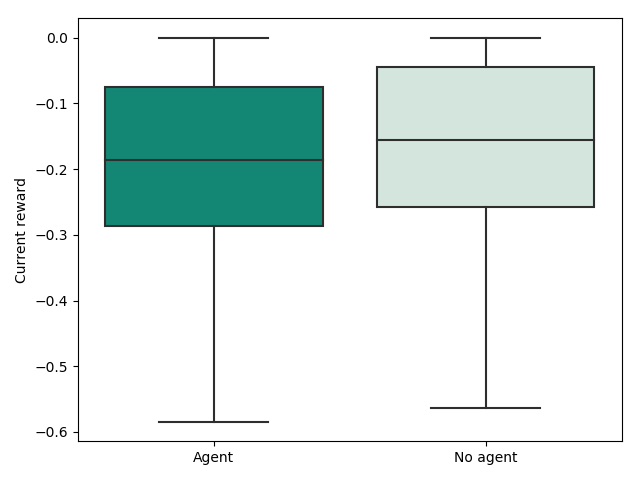
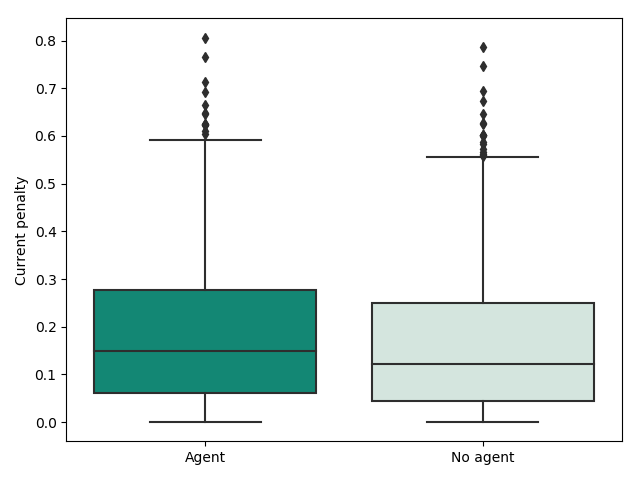
Update on Overleaf.

diff --git a/chapters/results.tex b/chapters/results.tex
@@ -158,40 +158,40 @@ The plot for \texttt{load 8} is shown alone in figure \ref{fig:results:configura
 
 \subsection{Voltage violations}
 The reward function has an energy imbalance term during training that is meant to incentives the agent to shift energy consumption. However, the main goal of the agent is to keep the values for current and voltage within safety margins. Therefore, it is interesting to see the rewards of the trained model when only the voltage and current terms are considered. In other words, the agent is only penalised for violating safety margins for current and voltage in the grid. The trained model was tested for 500 episodes each consisting of 200 steps and evaluated
-in terms of voltage penalty and current penalty independently. The statistics for the hours with a non-zero reward using only voltage reward are presented in table \ref{table:results:configuration1_reward_500_episodes}. Note that every non-zero reward corresponds to a violation of voltage margin because only the voltage term is used to calculate the reward. The trained agent reduces the number of voltage safety margin violations by 13 \% from 8593 to 7484. Note that there is no guarantee that it is physically feasible to satisfy voltage safety margins given a demand flexibility of 10 \%. It is clear that there is little difference between the trained agent and the no agent scenario in terms of mean voltage reward. Still, the reduction in number of voltage violations means that the trained agent overall is performing better in the 500 episodes. 
+in terms of voltage penalty and current penalty independently. The statistics for the hours with a non-zero reward using only voltage reward are presented in table \ref{table:results:configuration1_reward_500_episodes}. Note that every non-zero reward corresponds to a violation of voltage margin because only the voltage term is used to calculate the reward. The trained agent reduces the number of voltage safety margin violations by 18 \% from 8804 to 7253. Note that there is no guarantee that it is physically feasible to satisfy voltage safety margins given a demand flexibility of 10 \%. In addition to reducing the number of violations, the trained agent reduces the mean voltage penalty by 8\%.
 \begin{table}[h]
 \center
-\caption{Statistics of the voltage rewards given to the trained agent and no agent scenario over 500 episodes with 200 hours each}
+\caption{Statistics of the voltage penalty given to the trained agent and no agent scenario over 500 episodes with 200 hours each}
 \begin{tabular}{l|rrrrrrr}
-         & count & mean   & std   & min    & 25\%   & 50\%   & 75\%   \\
+         & count    & mean  & std   & 25\%  & 50\%  & 75\%  & max   \\
 \hline
-Agent    & 7484  & -0.033 & 0.035 & -0.189 & -0.049 & -0.021 & -0.007 \\
-No agent & 8593  & -0.035 & 0.037 & -0.186 & -0.054 & -0.022 & -0.006 \\
+Agent    & 7253 & 0.035 & 0.037 & 0.006 & 0.021 & 0.052 & 0.237 \\
+No agent & 8804 & 0.037 & 0.039 & 0.007 & 0.023 & 0.057 & 0.227 \\
 \hline
 \end{tabular}
 \label{table:results:configuration1_reward_500_episodes}
 \end{table}
 
-Figure \ref{fig:results:config1_voltage_boxplot} shows the voltage reward distribution for the trained agent and no agent scenario for hours with violations of voltage safety margins. These hours are termed critical since there would be voltage violations if no actions were taken. The trained agent is better in critical situations, as more of the rewards are centred closer to zero.
+Figure \ref{fig:results:config1_voltage_boxplot} shows the voltage penalty distribution for the trained agent and no agent scenario for hours with violations of voltage safety margins. These hours are termed critical since there would be voltage violations if no actions were taken. The trained agent is better in critical situations, as more of the penalties are centred closer to zero.
 
 \begin{figure}[H]
     \center
 \includegraphics[height=8cm, width=12cm]{figures/config1_voltage_boxplot.png}
-    \caption[size = 9]{Box plot of the reward distribution of the trained agent and no agent scenario for critical hours where safety margins are violated.}
+    \caption[size = 9]{Box plot of the voltage penalty distribution of the trained agent and no agent scenario for critical hours where safety margins are violated.}
     \label{fig:results:config1_voltage_boxplot}
 \end{figure}
 
-The statistics presented in table \ref{table:results:configuration1_reward_500_ep_preventive} show that the mean voltage penalty for the trained agent is reduced by 17 \% in critical hours.
+The statistics presented in table \ref{table:results:configuration1_reward_500_ep_preventive} show that the mean voltage penalty for the trained agent is reduced by 24 \% in critical hours.
 
 
 \begin{table}[h]
 \center
-\caption{Statistics of the voltage rewards given in critical hours to the trained agent and no agent scenario over a 500 episodes simulation with 200 hours each}
+\caption{Statistics of the voltage penalty given in critical hours to the trained agent and no agent scenario over a 500 episodes simulation with 200 hours each}
 \begin{tabular}{l|rrrrrrr}
-         & count & mean   & std   & min    & 25\%   & 50\%   & 75\%   \\
+         & count    & mean  & std   & 25\%  & 50\%  & 75\%  & max   \\
 \hline
-Agent    & 8593 & -0.029 & 0.034 & -0.190 & -0.044 & -0.015 & -0.003 \\
-No agent & 8593 & -0.035 & 0.037 & -0.186 & -0.054 & -0.022 & -0.006 \\
+Agent    & 8804 & 0.028 & 0.036 & 0.000 & 0.014 & 0.044 & 0.237 \\
+No agent & 8804 & 0.037 & 0.039 & 0.007 & 0.023 & 0.057 & 0.227 \\
 \hline
 \end{tabular}
 \label{table:results:configuration1_reward_500_ep_preventive}
@@ -199,19 +199,19 @@ No agent & 8593 & -0.035 & 0.037 & -0.186 & -0.054 & -0.022 & -0.006 \\
 
 
 
-All rewards in the no agent scenario for critical hours are sorted and plotted in figure \ref{fig:results:config1_sorted_voltage}. The corresponding rewards given to the trained agent are also plotted. This is done to see if the trained agent is better in very critical periods with severe voltage penalties, or if it performs well overall. The plot shows that the trained agent for the most part receives lower voltage penalties regardless of the size of the violation. Still, there are occasions where the trained agent is below the no agent scenario in figure \ref{fig:results:config1_sorted_voltage} which corresponds to periods where the trained agent aggravates the voltage magnitudes. The trained agent makes matters worse in 41\% of the critical hours, and increases the mean penalty with 13 \% in those hours. However, the trained agent improves the voltage margins in 59 \% of the critical hours, where it decreases the mean voltage penalty by 38 \%.
+All votlage penalties in the no agent scenario for critical hours are sorted and plotted in figure \ref{fig:results:config1_sorted_voltage}. The corresponding voltage penalties given to the trained agent are also plotted. This is done to see if the trained agent is better in very critical periods with severe voltage penalties, or if it performs well overall. The plot shows that the trained agent for the most part receives lower voltage penalties regardless of the size of the violation. Still, there are occasions where the trained agent is above the no agent scenario in figure \ref{fig:results:config1_sorted_voltage} which corresponds to periods where the trained agent aggravates the voltage magnitudes. The trained agent makes matters worse in 40\% of the critical hours, and increases the mean penalty with 29 \% in those hours. However, the trained agent improves the voltage margins in 60 \% of the critical hours, where it decreases the mean voltage penalty by 57\%.
 
 
 
 \begin{figure}[h]
     \center
 \includegraphics[height=8cm, width=12cm]{figures/config1_sorted_voltage.png}
-    \caption[size = 9]{Voltage rewards given to the trained agent and no agent scenario in critical hours. The rewards are sorted for the no agent scenario from best to worst}
+    \caption[size = 9]{Voltage penalties given to the trained agent and no agent scenario in critical hours. The penalties are sorted for the no agent scenario from least to most severe}
     \label{fig:results:config1_sorted_voltage}
 \end{figure}
 
 
-Figure \ref{fig:results:config1_improvement_voltage} shows for each hour of a day a box plot of the difference between the voltage reward given to the trained agent and no agent scenario in critical hours. This plot illustrates the improvements of the trained agent, measured in terms of the increase in voltage reward. Evidently, the trained agent is only improving the voltage situations in the afternoon, in periods of peak demand. 
+Figure \ref{fig:results:config1_improvement_voltage} shows for each hour of a day a box plot of the difference between the voltage reward given to the trained agent and no agent scenario in critical hours. This plot illustrates the improvements of the trained agent, measured in terms of the increase in voltage reward. Evidently, the trained agent is only improving the voltage situations in the afternoon, in periods of peak demand. This explains the times the agent makes matters worse in figure \ref{fig:results:config1_sorted_voltage}. 40 \% of the voltage violations occur before peak demand hours (18 pm), which is the same as the proportion of the critical hours where the trained agent makes matters worse. 
 
 \begin{figure}[h]
     \center
@@ -220,42 +220,42 @@ Figure \ref{fig:results:config1_improvement_voltage} shows for each hour of a da
     \label{fig:results:config1_improvement_voltage}
 \end{figure}
 
-Until now, the the trained agent has been evaluated in critical hours, where there would be a safety violation in the no agent scenario. However, the electric grid is within safety margins 91 \% of the time in the 500 episode simulation. It is very important that the trained agent finds appropriate behaviour in both non-critical and critical hours. Investigating the voltage penalty given to the agent in non-critical hours reveals that the agent pushes the voltages out of the safety margins 0.3 \% of the time. The worst of these violations is -0.0007 in magnitude, which is negligible  compared the violations in critical hours. In other words, the agent behaves well in non-critical hours in terms of voltage. 
+Until now, the the trained agent has been evaluated in critical hours, where there would be a safety violation in the no agent scenario. However, the electric grid is within safety margins 91 \% of the time in the 500 episode simulation. It is very important that the trained agent finds appropriate behaviour in both non-critical and critical hours. Investigating the voltage penalty given to the agent in non-critical hours reveals that the agent pushes the voltages out of the safety margins 0.6 \% of the time. The worst of these violations is -0.004 in magnitude, which is negligible  compared the violations in critical hours. In other words, the agent behaves well in non-critical hours in terms of voltage. 
 
 
 \subsection{Current violations}\label{section:config1:current_violations}
-The trained agent is tested in a 500 episode simulation, each consisting of 200 hours, and evaluated in terms of violations of current safety margins in the power lines. Specifically, the current cost $C_{current}$ for a line carrying a current $I$ with capacity $I_{max}$ is $C_{current} = \max(0,I - I_{max})$ where $I_{max}$ is set to 90 \% of the line capacity. The total current cost is found by summing over all lines. Note that the terms \textit{cost} and \textit{reward} are used interchangeably, depending on what is most natural. In all cases the reward is the negative of the cost. The statistics for the current violation of the trained agent and no agent scenario are presented in table \ref{table:results:configuration1_reward_500_episodes_current}
+The trained agent is tested in a 500 episode simulation, each consisting of 200 hours, and evaluated in terms of violations of current safety margins in the power lines. Specifically, the current cost $C_{\textrm{current}}$ for a line carrying a current $I$ with capacity $I_{\textrm{upper}}$ is $C_{\textrm{current}} = \max(0,I - I_{\textrm{max}})$ where $I_{\textrm{upper}}$ is set to 90 \% of the line capacity. The total current cost is found by summing over all lines. Note that the terms \textit{penalty} and \textit{reward} are used interchangeably, depending on what is most natural. In all cases the reward is the negative of the penalty. The statistics for the current violation of the trained agent and no agent scenario are presented in table \ref{table:results:configuration1_reward_500_episodes_current}
 
 \begin{table}[h]
 \center
-\caption{Statistics of the current rewards given to the trained agent and no agent scenario over a 500 episodes simulation, each with a duration of 200 hours}
+\caption{Statistics of the current penalty given to the trained agent and no agent scenario over a 500 episodes simulation, each with a duration of 200 hours}
 \begin{tabular}{l|rrrrrrr}
-         & count & mean   & std   & min    & 25\%   & 50\%   & 75\%   \\
+         & count    & mean  & std   & 25\%  & 50\%  & 75\%  & max   \\
 \hline
-Agent    & 1538  & -0.167 & 0.141 & -0.585 & -0.258 & -0.129 & -0.054 \\
-No agent & 1300  & -0.168 & 0.135 & -0.564 & -0.257 & -0.156 & -0.045 \\
+Agent    & 1556 & 0.174 & 0.146 & 0.053 & 0.138 & 0.268 & 0.806 \\
+No agent & 1487 & 0.161 & 0.142 & 0.045 & 0.121 & 0.250 & 0.787 \\
 \hline
 \end{tabular}
 \label{table:results:configuration1_reward_500_episodes_current}
 \end{table}
-The trained agent increases the number of current violations by 18 \% from 1300 to 1538. The mean magnitude of current violation is around the same in both scenarios. The agent has not learned an appropriate behaviour to reduce current overloads in the lines. The hours in the simulation that have a current violation if no action is taken are termed critical hours. Figure \ref{fig:results:config1_current_boxplot} shows the distribution of the current reward for the trained agent and no agent scenario in critical hours. The trained agent is worse because its current reward distribution is lower than for the no agent scenario.
+The trained agent increases the number of current violations by 5 \% from 1487 to 1556. In addition, the mean magnitude of current penalty increases by 9 \%. The agent has not learned an appropriate behaviour to reduce current overloads in the lines. The hours in the simulation that have a current violation if no action is taken are termed critical hours. Figure \ref{fig:results:config1_current_boxplot} shows the distribution of the current penalties for the trained agent and no agent scenario in critical hours. The trained agent is worse because its current penalty distribution is lower than for the no agent scenario.
 
 \begin{figure}[h]
     \center
 \includegraphics[height=8cm, width=12cm]{figures/config1_current_boxplot.png}
-    \caption[size = 9]{Box plot of the current reward for the trained agent and no agent scenario}
+    \caption[size = 9]{Box plot of the current penalty for the trained agent and no agent scenario in critical hours}
     \label{fig:results:config1_current_boxplot}
 \end{figure}
-Figure \ref{fig:results:config1_sorted_current} plots the current reward for critical hours in the 500 episode sorted from least to most severe. The hour with the lowest current reward is the most critical hour. It is clear that the trained agent for the most part aggravates the situation. In fact, it only improves the situation in 4\% of the critical hours, which for the most part are less critical in terms of the size of the current reward. 
+Figure \ref{fig:results:config1_sorted_current} plots the current violations for critical hours in the 500 episode sorted from least to most severe. The hour with the lowest current penalty is the least critical hour. It is clear that the trained agent for the most part aggravates the situation. In fact, it only improves the situation in 9\% of the critical hours, which for the most part are less critical in terms of the size of the current penalty. 
 
 \begin{figure}[h]
     \center
 \includegraphics[height=8cm, width=12cm]{figures/config1_sorted_current.png}
-    \caption[size = 9]{Current reward in critical hours sorted from best to worse for the trained agent and no agent scenario}
+    \caption[size = 9]{Current penalties in critical hours sorted from least to most severe for the trained agent and no agent scenario}
     \label{fig:results:config1_sorted_current}
 \end{figure}
 
-Figure \ref{fig:results:config1_improvement_current} shows hourly box plots for difference in current reward between the trained agent and the no agent scenario. This figure illustrates which hours of the day the trained agent performs well. For current rewards, the trained agent aggravates the situation in almost all hours. Hour 20 is the only time the agent improves the situation in terms of current magnitudes. Inspection of the hours with violations indicates that it is during noon (peak solar production) that the overloads happen, as illustrated in figure \ref{fig:results:config1_bad_current}.
+Figure \ref{fig:results:config1_improvement_current} shows hourly box plots for difference in current reward between the trained agent and the no agent scenario. This figure illustrates which hours of the day the trained agent performs well. For current penalty, the trained agent aggravates the situation in all hours before peak demand. The agent improves the situation in terms of current magnitudes after 18 pm. However, 91 \% of the current violations happen during peak solar production, so the net effect of the improvements are small. 91 \% is also the proportion of times the trained agent makes matters worse in critical hours in terms of the magnitude of the current violations, as shown in figure \ref{fig:results:config1_sorted_current}. Figure \ref{fig:results:config1_bad_current} illustrates a period where current violations occur during peak solar production.
 
 \begin{figure}[h]
     \center
@@ -277,7 +277,7 @@ Figure \ref{fig:results:config1_improvement_current} shows hourly box plots for 
 \subsection{Summary}
 The trained agent shows a desired behaviour in terms of voltage magnitudes in periods of peak power demand. The power consumption is decreased in those periods, which keeps the voltage magnitudes above the lower safety margins. However, the trained agent has not found a strategy that keeps voltage magnitudes below upper margins in periods with peak solar production.
 
-The agent performs poorly in terms of avoiding current overloads in the transmission lines. This is only a problem in periods of peak solar production, because there were close to 0 current overloads in the lines in hours of peek demand. Still, because it is improving the voltage situation during peak demand, it also reduces the current loading in the transmission lines. Therefore, the agents performs well in terms of current in periods of peak demand. The behaviour of the agent in hours of peak demand and peak solar production is summarised in table \ref{table:results:config1_behaviour}.
+The agent performs poorly in terms of avoiding current overloads in the transmission lines. This is mainly a problem in periods of peak solar production, because there were relatively few current overloads in the lines in hours of peek demand. Still, because it is improving the voltage situation during peak demand, it also reduces the current loading in the transmission lines. Therefore, the agents performs well in terms of current in periods of peak demand. The behaviour of the agent in hours of peak demand and peak solar production is summarised in table \ref{table:results:config1_behaviour}.
 
 \begin{table}[h]
 \center
@@ -291,26 +291,26 @@ Peak solar production & Poor                  & Poor \\
 \end{tabular}
 \label{table:results:config1_behaviour}
 \end{table}
- A summary of the performance in terms of voltage and current is presented in table \ref{table:results:config1_summary}. Overall, the trained agent reduces the number of voltage and current violations by 10\%. However, it increases the mean cost by 5 \% due to its poor behaviour in terms of avoiding current violations. Still, the trained agent is better in terms of the total cost received in the 500 episode simulation because voltage violations are more frequent. The total cost in terms of both current and voltage is reduced by 3 \%.
+ A summary of the performance in terms of voltage and current is presented in table \ref{table:results:config1_summary}. Overall, the trained agent reduces the number of voltage and current violations by 14\%. However, it increases the mean penalty by 7 \% due to its poor behaviour in terms of avoiding current violations. Still, the trained agent is better in terms of the total penalty received in the 500 episode simulation because voltage violations are more frequent. The total penalty in terms of both current and voltage is reduced by 8 \%.
 
 
 \begin{table}[h]
 \center
-\caption{Summary of number of violations and mean costs in terms of current and voltage for the trained agent and the no agent scenario}
+\caption{Summary of number of violations and mean penalty in terms of current and voltage for the trained agent and the no agent scenario}
 \begin{tabular}{l|lrrr}
 Type      &               & Agent          & No agent       & Change        \\
 \hline
-Current   & Violations    & 1538            & 1300            & 18\%            \\
-          & Mean cost     & 0,17           & 0,17           & 0 \%         \\
-          & Cost          & 256            & 218            & 17 \%         \\
+Current   & Violations    & 1556            & 1487          & 5\%            \\
+          & Mean penalty     & 0,17           & 0,16           & 9 \%         \\
+          & Penalty          & 271            & 239            & 14 \%         \\
           &               &                &                &               \\
-Voltage   & Violations    & 7484           & 8593           & -13\%          \\
-          & Mean  cost    & 0,033          & 0,035          & -6\%          \\
-          & Cost          & 249,9          & 304,5         & -18 \%        \\
+Voltage   & Violations    & 7253           & 8804           & -18\%          \\
+          & Mean  penalty    & 0,035          & 0,037          & -8\%          \\
+          & Penalty          & 251.3          & 330.1         & -24 \%        \\
           &               &                &                &               \\
-Total     & Violations    & 9022           & 9893           & -10\%          \\
-          & Mean cost     & 0.056          & 0.053          & 5 \%         \\
-\textbf{} & \textbf{Cost} & \textbf{505.9} & \textbf{522.5} & \textbf{-3\%} \\
+Total     & Violations    & 8809           & 10291          & -14\%          \\
+          & Mean penalty     & 0.059          & 0.055          & 7 \%         \\
+\textbf{} & \textbf{Penalty} & \textbf{522.3} & \textbf{569.1} & \textbf{-8\%} \\
 \hline
 \end{tabular}
 \label{table:results:config1_summary}

diff --git a/chapters/conclusion.tex b/chapters/conclusion.tex
@@ -30,23 +30,24 @@ The short answer to the research question is yes. The agent was able reduce the 
 
 The implementation of the power system environment is based on several simplifications, such as a constant power factor, equal demand signals and constant flexibility in the net. This is done so it is possible to analyse the behaviour of the algorithm. The implementations can be extended to be more in accordance with a real model for demand response and tested for different combinations of hyperparameters. The agent's action space can also be extended to control transformers, switches and charging of storage units. This is a way to handle the challenges that comes with increased amount of distributed solar production in the electrical power net. Reinforcement learning is a particularly attractive approach for solving this task because the environment can be simulated efficiently, providing the agent with many experience from which it can learn. A successful reinforcement learning algorithm managing a demand response program can accelerate the incorporation of more renewable energy into the power mix, as costly and time-consuming upgrades of infrastructure can be avoided. This is of great utility, not only from a power system perspective, but also as a measure to achieve the goals of the Paris agreement.
 
-\section{Future work}
+\section*{Future work}
 There are several natural next steps to continue the work presented in this thesis. 
 
 \subsection*{Pretraining}
 The reinforcement agent in this thesis learns entirely from self-play and receives no input of how it should behave. However, the deep deterministic policy gradient method can be pretrained on a dataset with behaviour that is known to be good. Pretraining gives the agent a good starting point from which it can start experimenting with different behaviours and find proper strategies. This is especially attractive since the action space is very large, which means that a lot of training time is used to explore basic behaviour.
 
 \subsection*{Hyperparameter search}
-There are many hyperparameters that can be tuned in reinforcement learning, as in most machine learning algorithms. This thesis has not performed for an optimal hyperparameter search. One key parameters that should be tested more thoroughly is the training time, as neural network networks are good at continuously learning from new data.     
+There are many hyperparameters that can be tuned in reinforcement learning, as in most machine learning algorithms. This thesis has not performed for an optimal hyperparameter search. One key parameters that should be tested more thoroughly is the training time, as neural network networks are good at continuously learning from new data, and the action space is large.     
 \subsection*{Realistic demand response model}
-The model of the demand response response used in this thesis is based on several simplifications. The power system is assumed offer a demand flexibility that is constant and symmetric in all hours. Concretely, the power consumption can in every hour be changed continuously in the interval [-10\%,10\%]. Realistically, changing the consumption affects the future flexibility in the system. In addition, the trained agent can change the consumption freely without any cost in this thesis. This is unrealistic, since people are not going to change their consumption patterns without an economic compensation. Future work should have a more realistic modelling of a demand response program.
+The model of the demand response program used in this thesis is based on several simplifications. The power system is assumed to offer a demand flexibility that is constant and symmetric in all hours. Concretely, the power consumption can in every hour be changed continuously in the interval [-10\%,10\%]. Realistically, changing the consumption affects the future flexibility in the system. In addition, the trained agent can change the consumption freely without any cost in this thesis. This is unrealistic, since people are not going to change their consumption patterns without an economic compensation. Future work should have a more realistic modelling of a demand response program. This would result in the need for more long term planning because an action greatly affects the future possible actions. Reinforcement algorithms are well suited for tasks that require farsighted strategies. 
 \subsection*{More control variables}
-The action in the reinforcement algorithm is to change consumption in the grid. A natural extension of this is to let the agent control more elements, such as tap-changing transformers and batteries.
+The action in the reinforcement algorithm is to change consumption in the grid. A natural extension of this is to let the agent control more elements, such as tap-changing transformers, and charging of batteries. Both transformers and batteries can be controlled using \texttt{pandapower}, the Python power flow simulation tool used in this thesis.
 \subsection*{Finer time scale}
-The trained reinforcement agent performs an action every hour. Therefore, it is not able to tackle problems in real-time by activating flexibility. Instead, it is appropriate for planing the activation of flexibility in the next hours. A finer time-resolution, for instance every minute, could be implemented for a real-time demand response program
+The trained reinforcement agent performs an action every hour. Therefore, it is not able to tackle problems in real-time by activating flexibility. Instead, it is appropriate for planing the activation of flexibility in the next hours. A finer time-resolution, for instance every minute, could be implemented in a demand response program that can operate close to real-time.
 \subsection*{Wind power}
+Wind power is a variable renewable energy source that is not consider in this thesis. Consequently, only a solar forecasts is sent to the reinforcement agent. An extension of the setup can integrate wind power in the network as well, and test how the reinforcement agent tackles different sources of renewable energy production.
 \subsection*{Other reinforcement algorithm}
-
+The Python code developed for activation of flexibility of the follows the structure of a general \texttt{gym} environment in Python, and can consequently be applied to different reinforcement algorithms without doing any modification of the code. The Python toolkit \texttt{stable\_baseline} offers several different possible reinforcement learning algorithms, such as Proximal Policy Optimization and Soft Actor Critic.
 
 
 \end{document}

diff --git a/chapters/reinforcement_learning.tex b/chapters/reinforcement_learning.tex
@@ -428,9 +428,9 @@ Designing the reward for a reinforcement agent is often a challenging and time-c
 
 
 
-Consider the two-bus system shown in figure \ref{fig:theory:two_bus_reinforcement}. The bus at the left represent a power plant that produces electric power $S_{1} = P_{1} + jQ_{1}$. The power flows through the transmission line and with some losses and arrives at bus 2 with apparent power $S_{2} = P_{2} + jQ_{2}$. An agent using the deep deterministic policy gradient (DDPG) algorithm was given a simple load balancing task on the power network. The agent controls the active power production $P_{1}$ at bus 1, and has to tune it so that bus 2 receives the desired active load $P_{2}$. For simplicity, the demanded load at bus 2 is constant at 1.3 MW. The voltages magnitudes at each bus is locked to 1 p.u, while the reactive power injections and voltage angle can vary. The reward $r_{t}$ is defined as the negative of the absolute deviation between the received and desired load at bus 2. The idea is that the agent should be encouraged to move closer to the desired load. For simplicity, the initial state, represented as the voltage magnitude, voltage angle the apparent power at each bus, was always the same. The task should therefore be very manageable for the agent because it only has to learn one simple behaviour. After training it converged and received rewards close to 0, indicating that bus 2 got the desired load. The problem was that the agent produced over 10 times as much active power as bus 2 wanted. Where did the rest go? It was lost in the line. In other words, the system had under 10 \% efficiency. Figure \ref{fig:theory:two_bus_failing} shows what was happening. A line can not transfer an arbitrary amount of active power due to the power flow equations. As a result, there will be two different production points for $P_{1}$ that gives the load the desired amount of active power. However, the production point around 12 MW is obviously not desired, as the system efficiency is below 10 \%. However, one cannot blame the agent for finding this point, and sticking with it. It has no incentive to change its behaviour when the reward is defined as it is. A natural solution would be to include a term in the reward that punishes loss in the line. This can be done, and the agent would probably find the right power production level. This illustrates the challenges with manual reward shaping. 
+Consider the two-bus system shown in figure \ref{fig:theory:two_bus_reinforcement}. The bus at the left represent a power plant that produces electric power $S_{1} = P_{1} + jQ_{1}$. The power flows through the transmission line and with some losses and arrives at bus 2 with apparent power $S_{2} = P_{2} + jQ_{2}$. An agent using the deep deterministic policy gradient (DDPG) algorithm was given a simple load balancing task on the power network. The agent controls the active power production $P_{1}$ at bus 1, and has to tune it so that bus 2 receives the desired active load $P_{2}$. For simplicity, the demanded load at bus 2 is constant at 1.3 MW. The voltages magnitudes at each bus is locked to 1 p.u, while the reactive power injections and voltage angle can vary. The reward $r_{t}$ is defined as the negative of the absolute deviation between the received and desired load at bus 2. The idea is that the agent should be encouraged to move closer to the desired load. For simplicity, the initial state, represented as the voltage magnitude, voltage angle the apparent power at each bus, was always the same. The task should therefore be very manageable for the agent because it only has to learn one simple behaviour. After training it converged and received rewards close to 0, indicating that bus 2 got the desired load. The problem was that the agent produced over 10 times as much active power as bus 2 wanted. Where did the rest go? It was lost in the line. In other words, the system had under 10 \% efficiency. Figure \ref{fig:theory:two_bus_failing} shows what was happening. A line can not transfer an arbitrary amount of active power due to the power flow equations. As a result, there will be two different production points for $P_{1}$ that give the load the desired amount of active power. However, the production point around 12 MW is obviously not desired, as the system efficiency is below 10 \%. However, one cannot blame the agent for finding this point, and sticking with it. It has no incentive to change its behaviour when the reward is defined as it is. A natural solution would be to include a term in the reward that punishes loss in the line. This can be done, and the agent would probably find the right power production level. This illustrates the challenges with manual reward shaping. 
 
-\begin{figure}[ht!]
+\begin{figure}[h]
     \center
     \includegraphics[height=7.5cm, width=10cm]{figures/twobus_load_balance.png}
     \caption[size = 9]{Received load as a function of production of the two-bus system in figure \ref{fig:theory:two_bus_reinforcement}, and cost given to the agent}

diff --git a/chapters/abstract.tex b/chapters/abstract.tex
@@ -15,9 +15,14 @@
 \usepackage{pgfplotstable}
 \usepackage[font=small,labelfont=bf]{caption}
 
-
 \pgfplotsset{compat=1.15}
 
 \begin{document}
 \chapter{Abstract}
+The increasing amount of variable renewable energy sources such as solar and wind power in the power mix brings new challenges to existing power system infrastructure. A fundamental property of an electric power system is that the production of power at all times must be consumed somewhere in the grid. Growing solar production can result in excess power that can break the power capacity in transmission lines and damage the voltage quality in an electric grid. A workaround this problem is that consumers shift their power consumption pattern such that more solar power is consumed locally during daytime. Methods for achieving a change in consumption patters are called demand response programs.
+
+The purpose of this thesis is to make a Python implementation of an automatic and simplified demand response program by using reinforcement learning (RL), a subcategory of machine learning. The RL algorithm is allowed to change the power consumption every hour in an electric grid that has a high amount of local solar production. Decreasing the power consumption can for instance correspond to a collection of electric vehicles postponing the charging to later in the day. Once the RL algorithm has modified the power consumption, the resulting line currents and voltages in grid are calculated. The goal for the algorithm is to learn a behaviour that reduces the number current and voltage violations in the grid.
+
+The trained RL algorithm is found to reduce the number of safety violations in the grid by 13 \%. However, investigating the results reveals that the RL algorithm only avoids safety violations in hours of peak demand, and that it actually produces more violations during hours of peak solar production. The algorithm is better overall because more violations occurs during the afternoon. Further investigation is needed to fine-tune the algorithm such that it behaves well in an entire day.
+
 \end{document}

diff --git a/chapters/sammendrag.tex b/chapters/sammendrag.tex
@@ -20,4 +20,11 @@
 
 \begin{document}
 \chapter{Sammendrag}
+Økt andel uregulerbar fornybar kraftproduksjon som sol- og vindenergi i energimiksen gir utfordringer for eksisterende infrastruktur i et elektriske kraftnett. En grunnleggende egenskap i det elektriske kraftsystemet er at all produsert kraft alltid i sanntid må forbrukes et sted i kraftnettet. Økt andel av lokal kraftproduksjon fra solceller kan gjøre at kapasiteten i kraftledningene brytes og ødelegge spenningskvaliteten i kraftnett. En løsning på dette problemet er at forbrukere forskyver forbruksmønsteret sitt slik at mer solkraft blir konsumert lokalt rundt dagtid, slik at kraften ikke må eksporteres til kraftnettet. Metoder som har som mål å endre forbruksmønsteret kalles program for forbrukerfleksibilitet.
+
+Hovedmålet i denne masteroppgaven er lage en Python-implementasjon av et forenklet program for forbrukerfleksibilitet ved hjelp av forsterkende læring (FL), en underkategori av maskinlæring. FL-algoritmen får lov til å modifisere kraftforbruket hver time i et kraftnett med høy lokal produksjon av solkraft. Å minke kraftforbruket kan for eksempel være å utsette ladningen av flere elbiler til senere. Når FL-algoritmen har modifisert kraftforbruket i nettet, så kalkuleres de påfølgende verdiene for strøm og spenning. Målet til algoritmen er å lære seg en strategi som reduserer antall ganger verdiene for strøm og spenning går utenfor sine respektive sikkerhetsmarginer.
+
+Den trente FL-algoritmen reduserer antall sikkerhetsbrudd i kraftnettet med 13 \%.  Det viser seg imidlertid at algoritmen kun klarer å redusere antallet rundt kveldstid, når forbruket er på sitt høyeste. Algoritmen øker antall sikkerhetsbrudd i timer med høy kraftproduksjon fra solceller. Totalt sett er den trente algoritmen bedre siden det er flere sikkerhetsbrudd i timer med høyt forbruk. Videre undersøkelser trengs for å justere algoritmen slik at den finner en strategi som fungerer hele døgnet. 
+
+
 \end{document}

diff --git a/chapters/appendix.tex b/chapters/appendix.tex
@@ -21,7 +21,7 @@
 
 \begin{document}
 \chapter{Model details}
-\section{Configuration 1}\label{section:apendix_config1}
+\section{Simulation 1}\label{section:apendix_config1}
 Table \ref{apendix:config1:params} shows the parameters used in the \texttt{ActiveEnv} class in the simulation of configuration 1
 
 \begin{table}[ht]
@@ -56,9 +56,5 @@ voltage\_weight    & 1                                         \\
 The used implementation of DDPG is \texttt{stable\_baselines.ddpg.ddpg.DDPG}. The agent was trained for 100 000 steps, which took around 1 hour with a 2 core Intel(R) Core(TM) i3-7100U CPU @ 2.40 GHz. The memory limit (size of the experience replay buffer) was also set to 100 000. The rest of the arguments are the same as the default values. 
 
 \texttt{stable\_baselines.ddpg.policies.LnMlpPolicy} is the policy that is used for training the model. It is a dense neural network with an architecture of 2 hidden layer, each with 64 neurons and layer normalisation. The exploratory noise added to the deterministic policy is \texttt{stable\_baselines.ddpg.noise.OrnsteinUhlenbeckActionNoise} with standard hyperparameters: mean=0, sigma=0.2, theta=0.15.  
-
-
-\section{Configuration 2}
-The contents...
 
 \end{document}

diff --git a/chapters/code.tex b/chapters/code.tex
@@ -56,7 +56,7 @@ The Python code written for this thesis can be found on GitHub: \url{https://git
 \lstinputlisting[language=Python]{RLpower/active_network_env.py}
 
 
-\section{Simulation}
+\section{Training}
 \lstinputlisting[language=Python]{RLpower/stable_ddpg_example.py}
 \end{document}
 
